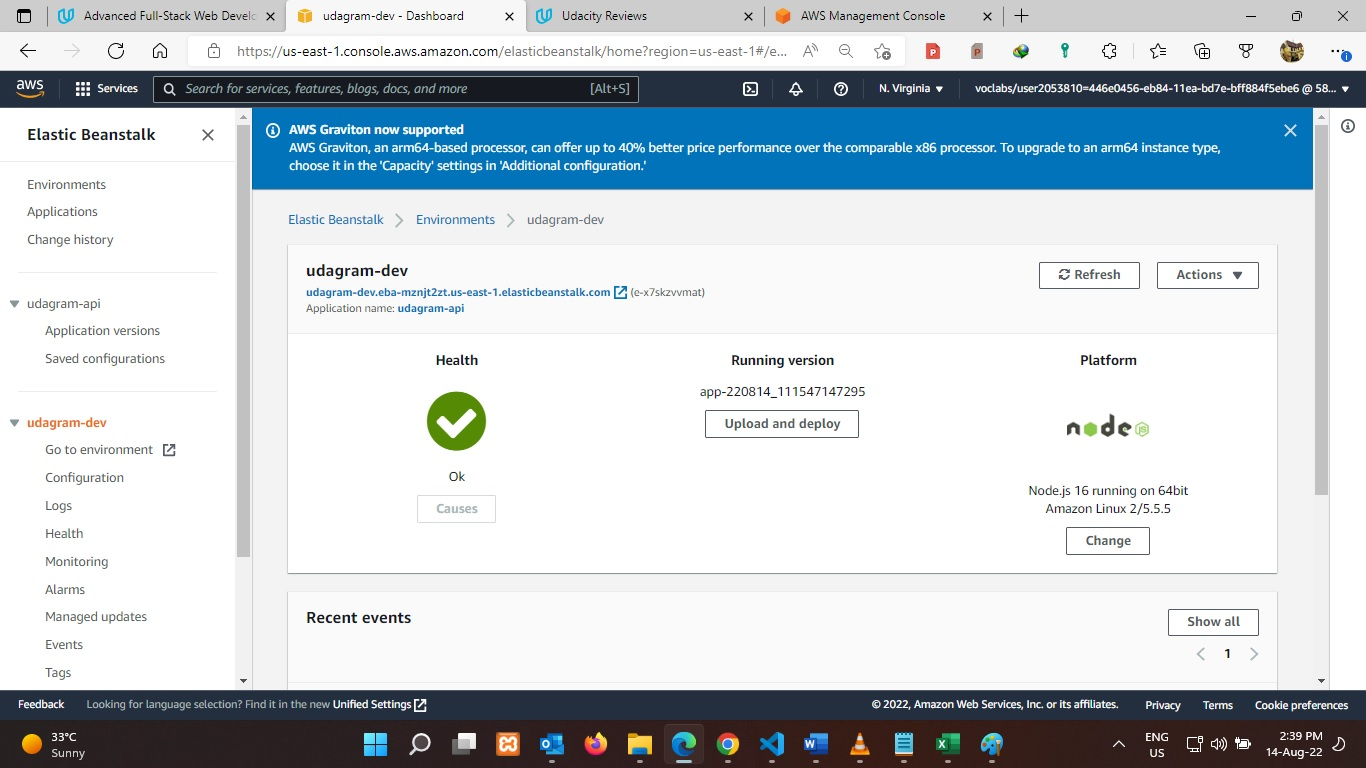
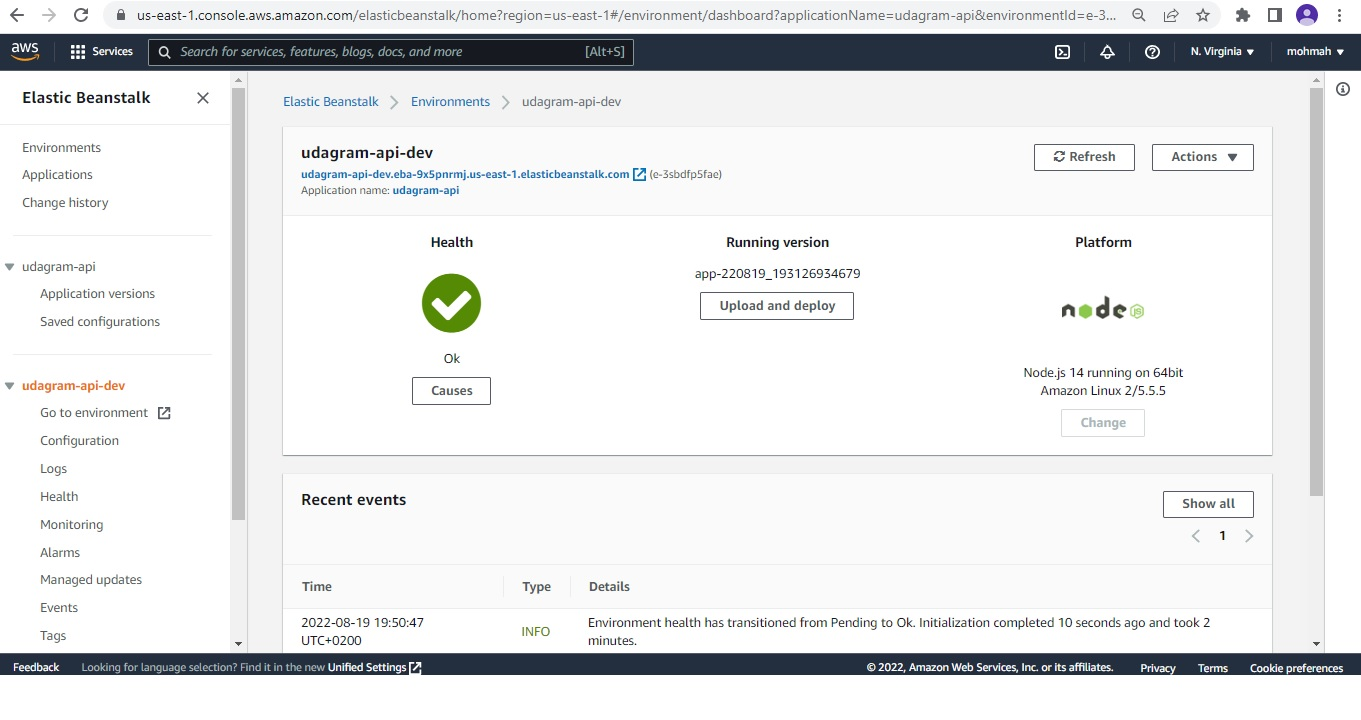
update .env and envirements files to include new buckets

diff --git a/udagram-frontend/src/environments/environment.prod.ts b/udagram-frontend/src/environments/environment.prod.ts
@@ -4,9 +4,9 @@
 
 export const environment = {
   production: true,
-  appName: 'Udagram',
-  apiHost: 'http://udagram-dev.eba-mznjt2zt.us-east-1.elasticbeanstalk.com/api/v0',
-}
+  appName: "Udagram",
+  apiHost: "http://udagram-api-dev.eba-9x5pnrmj.us-east-1.elasticbeanstalk.com/api/v0",
+};
 
 /*
  * For easier debugging in development mode, you can import the following file

diff --git a/udagram-frontend/src/environments/environment.ts b/udagram-frontend/src/environments/environment.ts
@@ -5,8 +5,8 @@
 export const environment = {
   production: false,
   appName: 'Udagram',
-   apiHost: 'http://udagram-dev.eba-mznjt2zt.us-east-1.elasticbeanstalk.com/api/v0',
-}
+  apiHost: 'http://udagram-api-dev.eba-9x5pnrmj.us-east-1.elasticbeanstalk.com/api/v0'
+};
 
 /*
  * For easier debugging in development mode, you can import the following file
